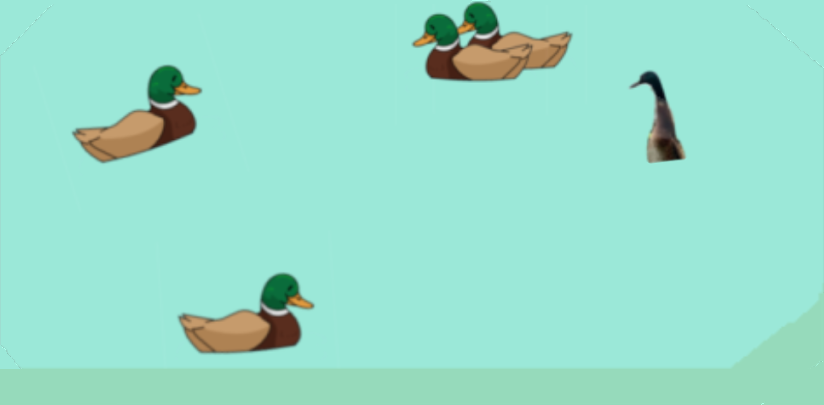
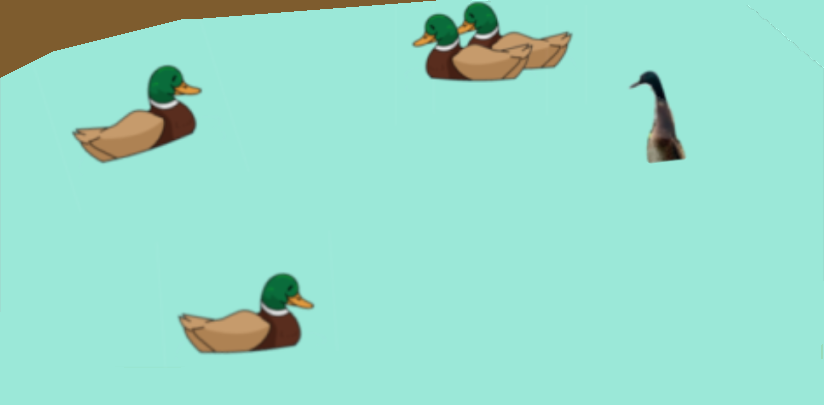
done

Changed region(s): [[0.0, 0.7407, 1.0, 1.0], [0.0, 0.0, 0.5158, 0.2074]]

diff --git a/core/src/com/mygdx/game/GameScreen.java b/core/src/com/mygdx/game/GameScreen.java
@@ -46,7 +46,7 @@ public class GameScreen implements Screen {
         entities.put("Player",new Player());
 
         entities.put("Library",new Library(1.35, 1.4,0.4, 0.4));
-        entities.put("DuckPond",new DuckPond(0.75,0.4, 0.35,0.25));
+        entities.put("DuckPond",new DuckPond(1.3,0.07, 0.35,0.25));
         entities.put("Accommodation",new Accommodation(0.5,1.2, 0.2,0.2,this));
         entities.put("Piazza",new Piazza(1.3,0.6, 0.2,0.4));
 
